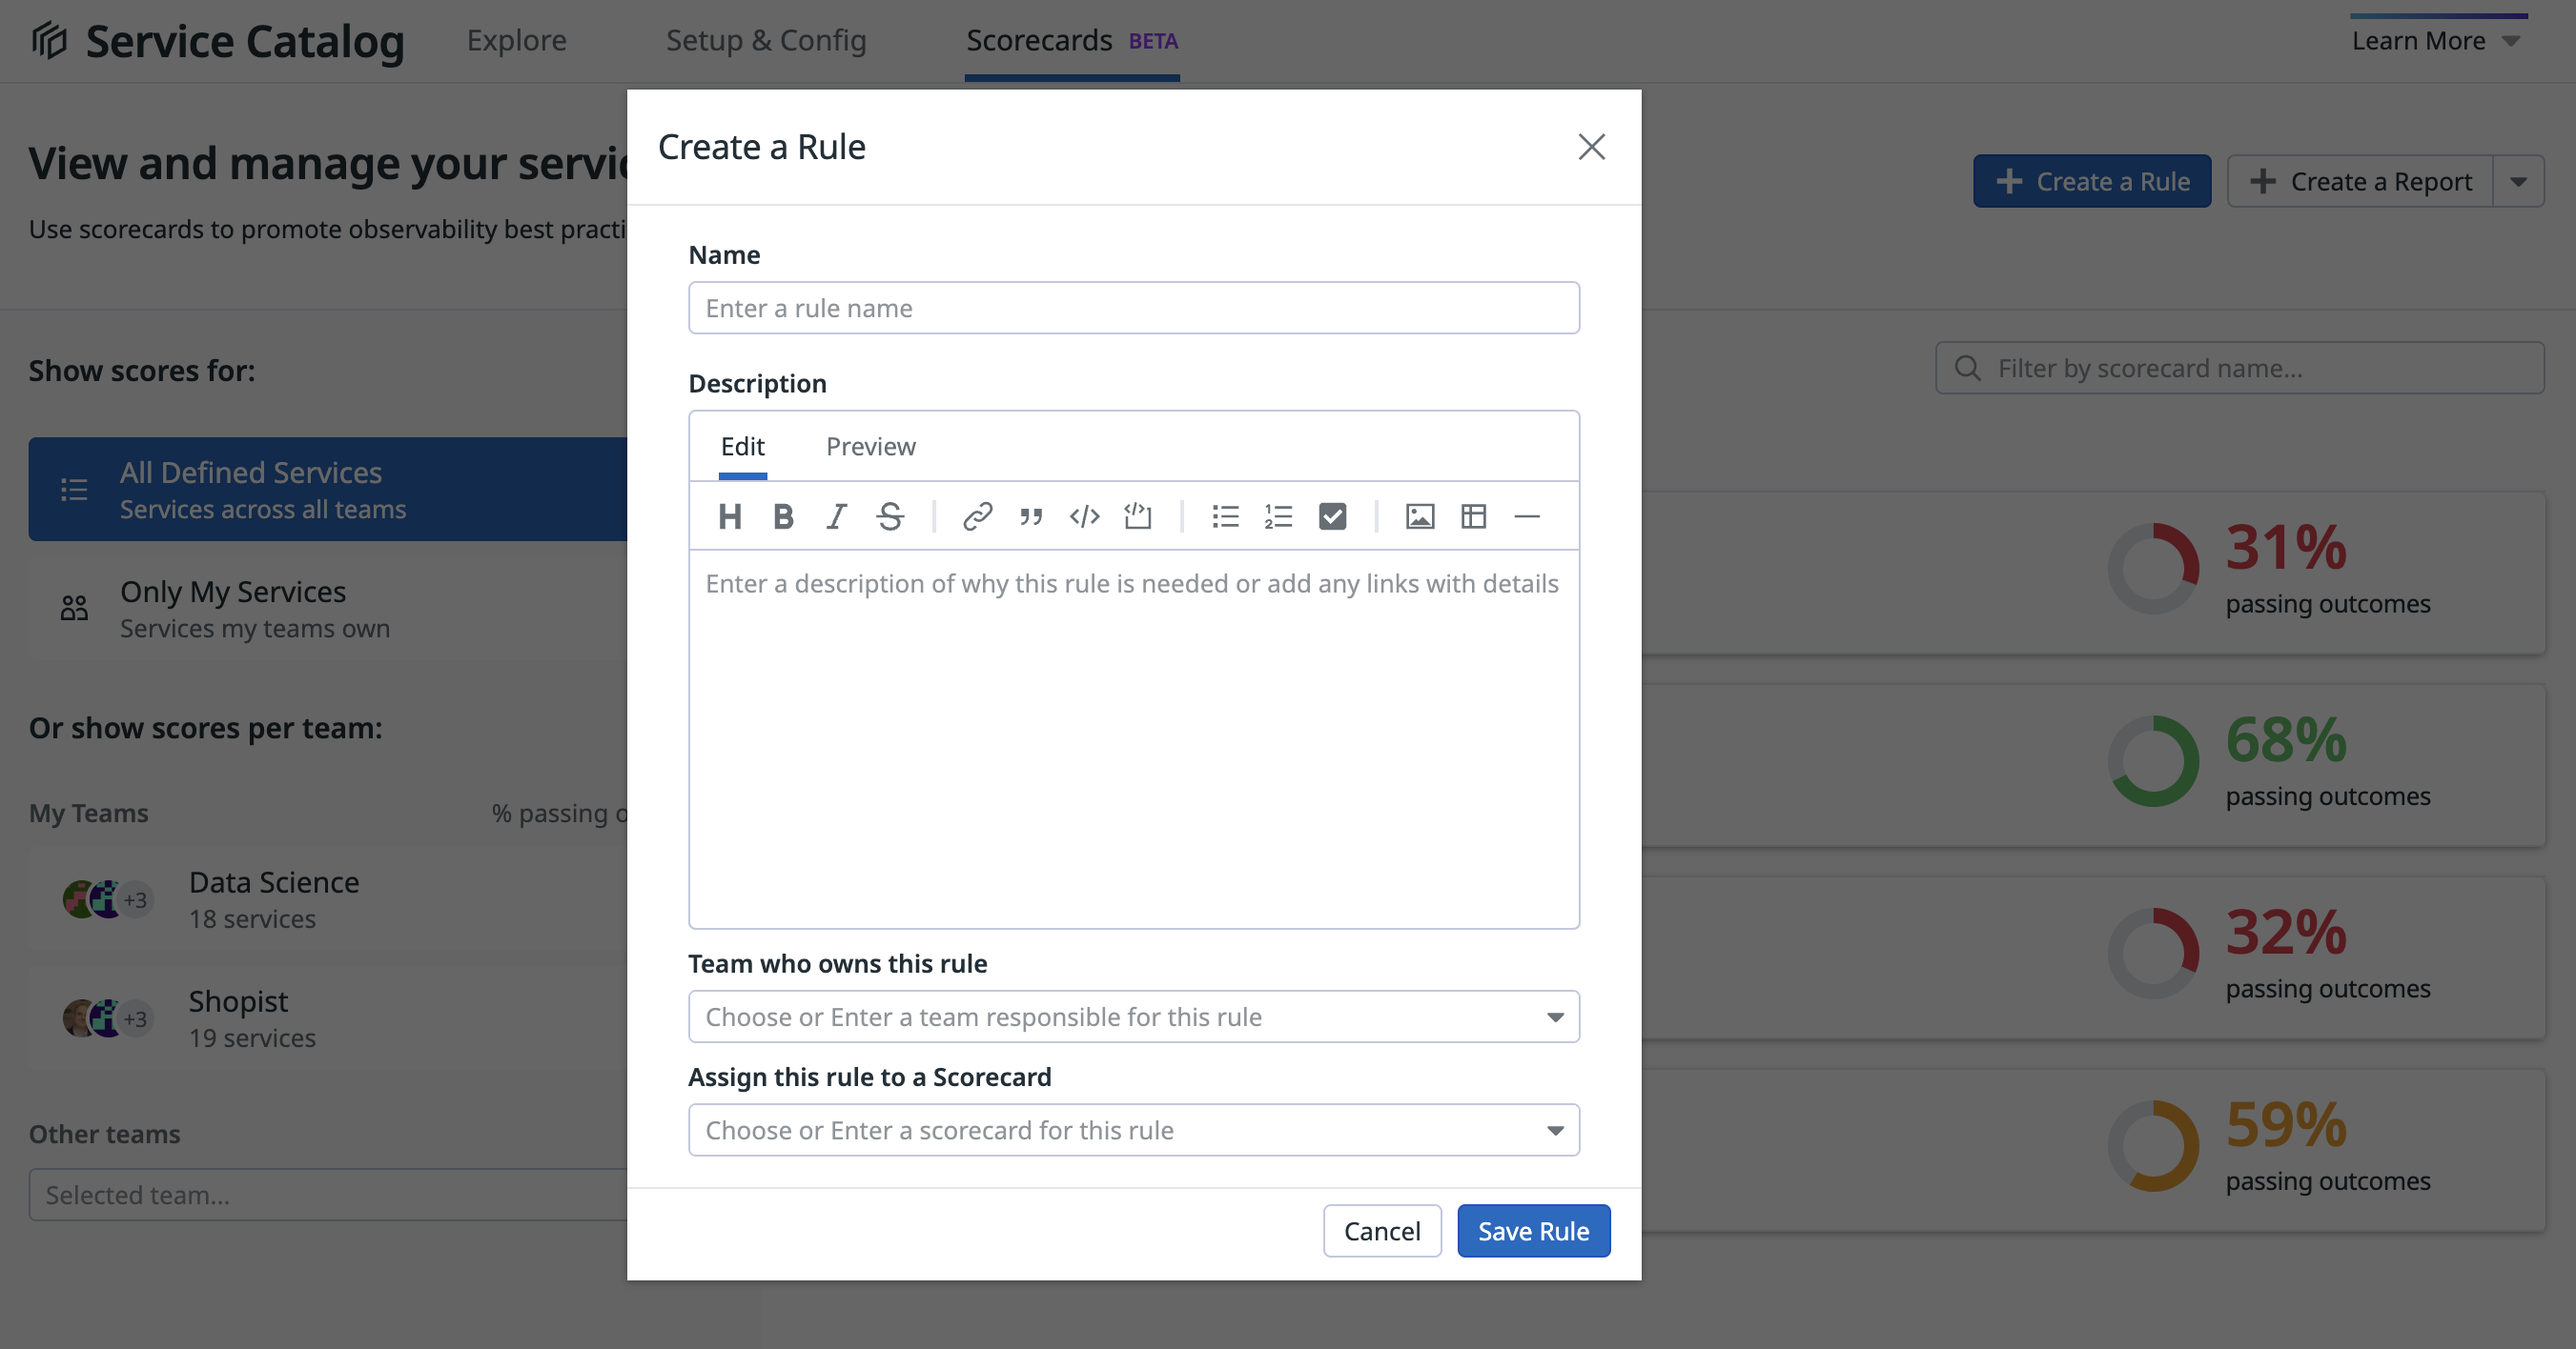
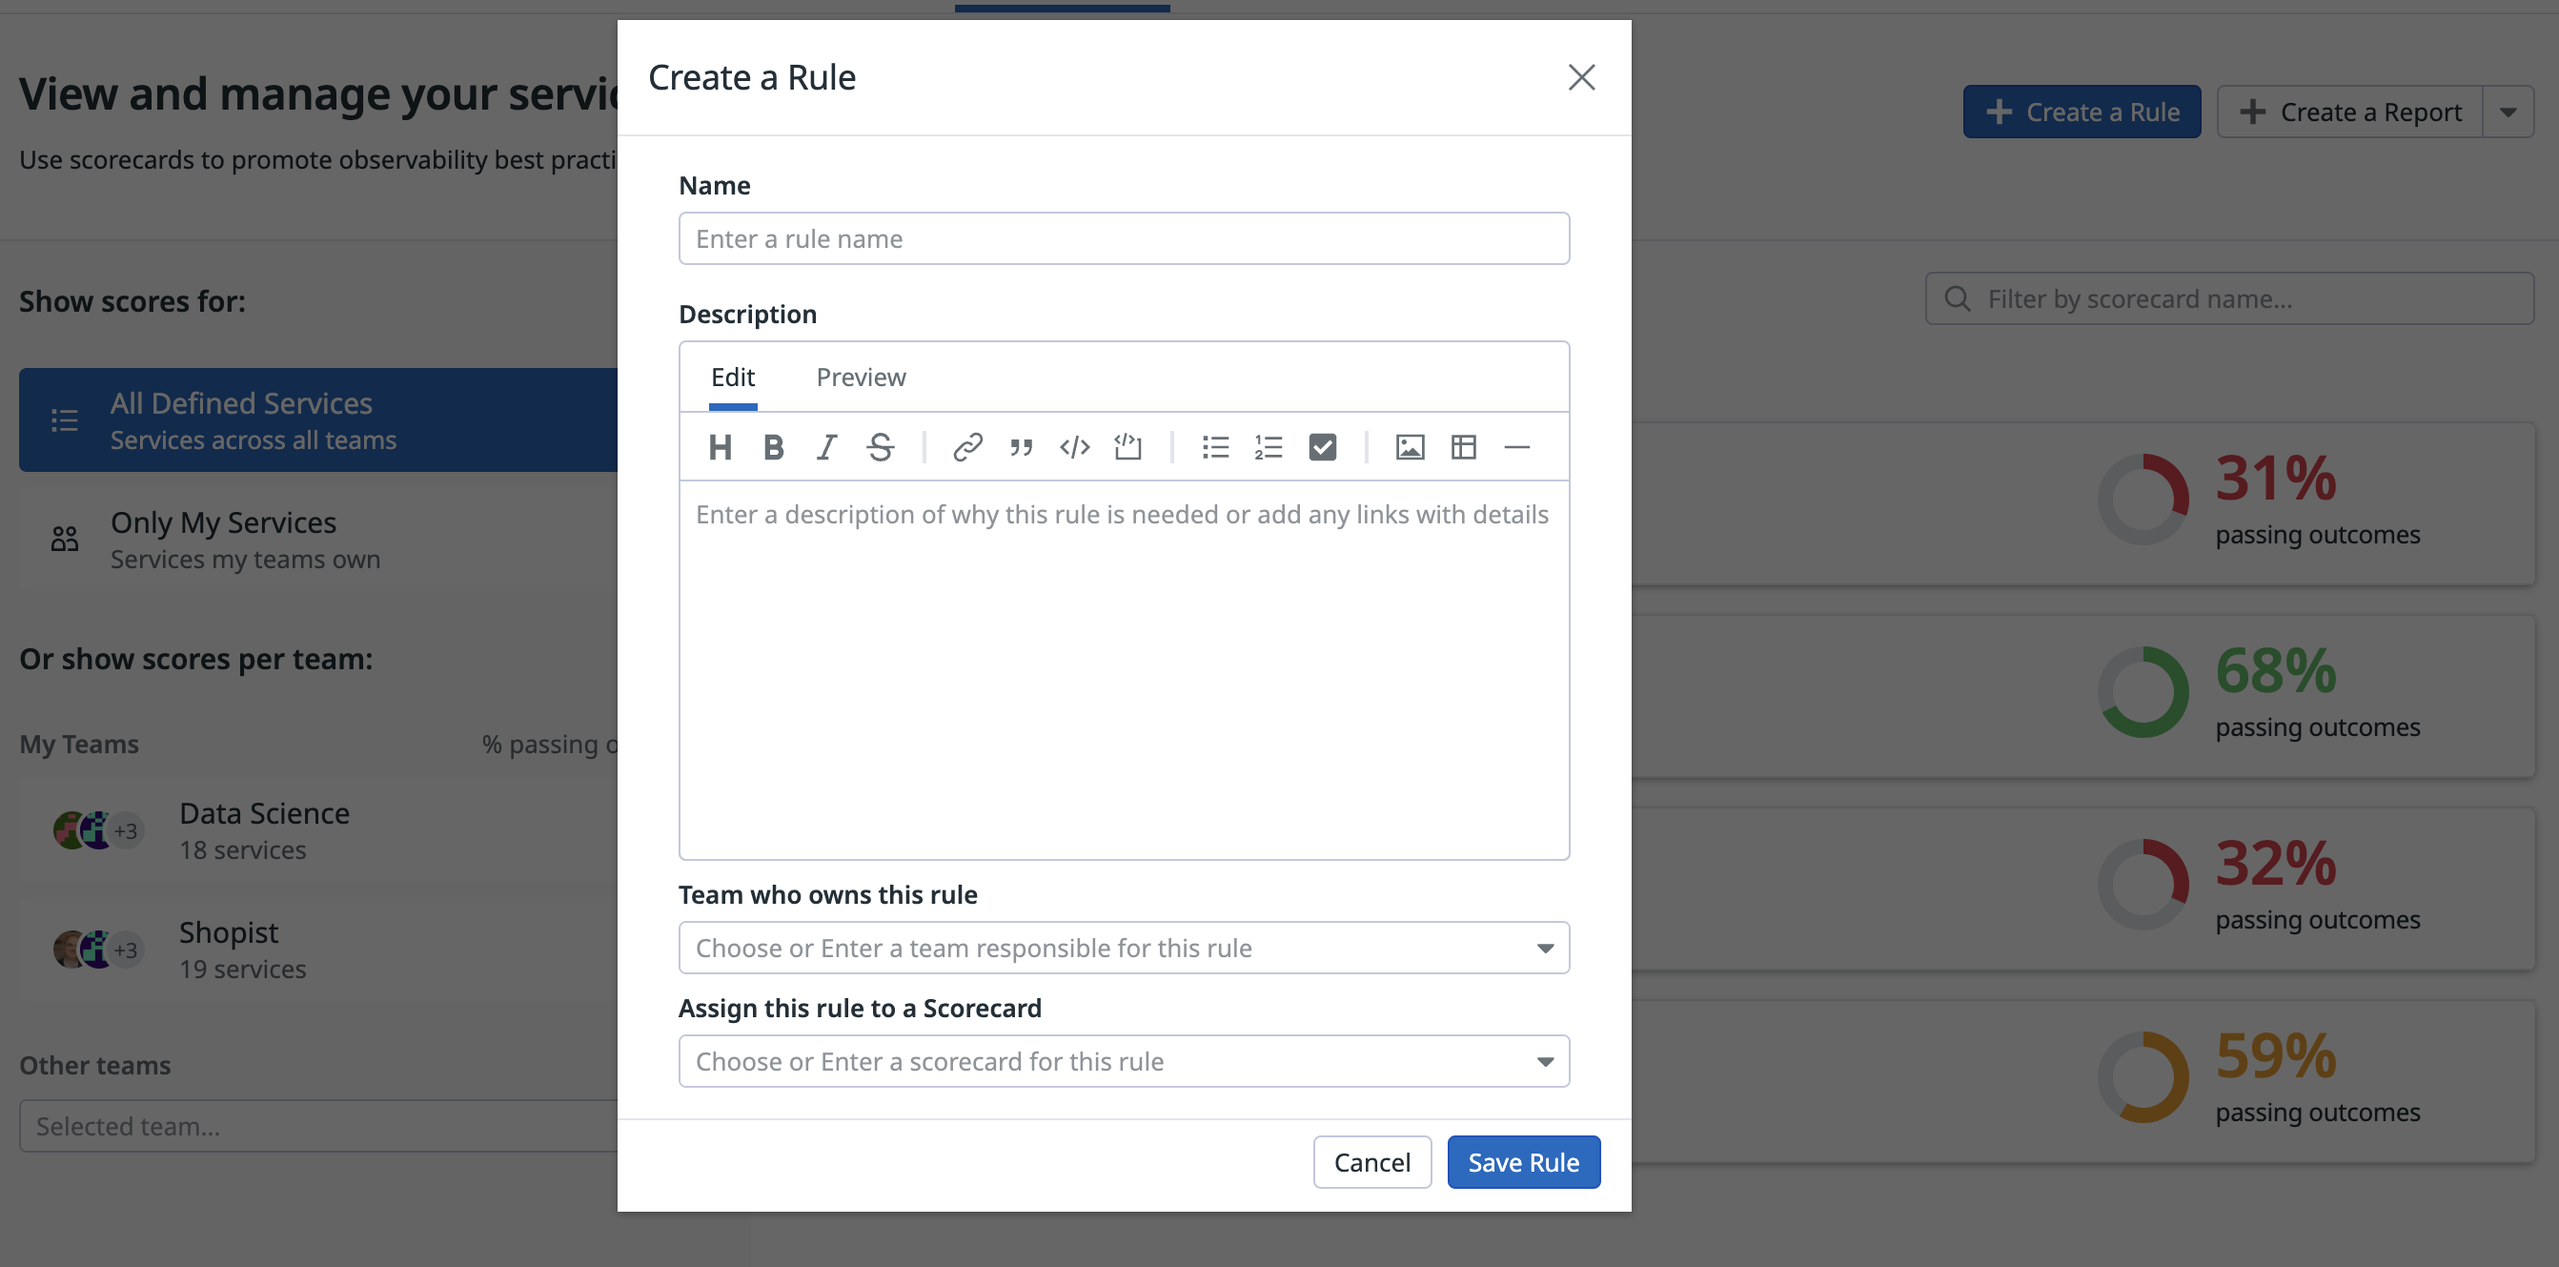
image updates

diff --git a/content/en/glossary/terms/service.md b/content/en/glossary/terms/service.md
@@ -3,7 +3,7 @@ title: service
 core_product:
   - apm
   - serverless monitoring
-  - Software Catalog
+  - software catalog
 ---
 1. In APM, a service is a group of related endpoints, queries, or jobs that perform a piece of work for your application. A microservices-based architecture is built from multiple services, each performing part of the operation of the application.
 2. In serverless computing, a service is an independently-deployed piece of functionality in your architecture. Serverless applications are powered by managed services.
